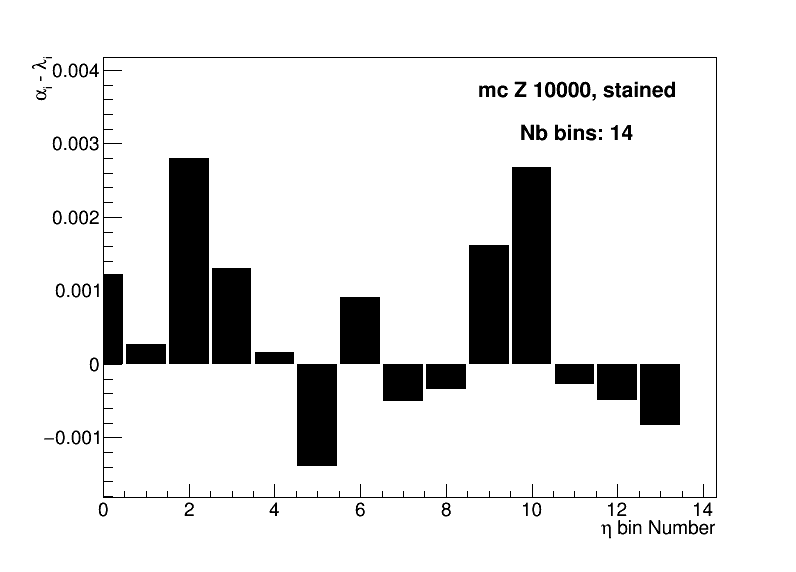
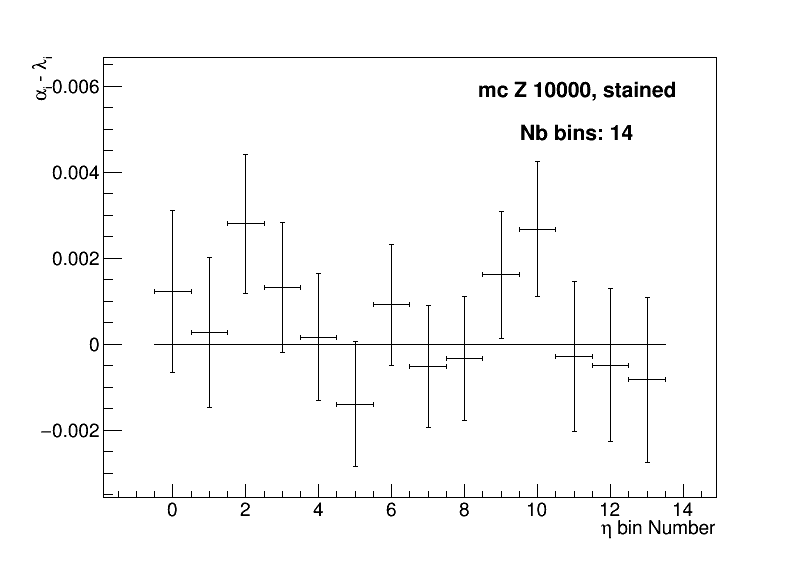
Test run on Z data 50000 sample with BetaAlpha method

diff --git a/Analysis/BetaAlpha_method/plot_alphas.C b/Analysis/BetaAlpha_method/plot_alphas.C
@@ -158,8 +158,7 @@ void plot_alphas(string& type, string& categ, string& nbEvents, int binning, int
     info_text->AddText(Form("%s %s %s, %s", type.c_str(), categ.c_str(), nbEvents.c_str(), (stained ? "stained" : "unstained")));
     info_text->AddText(Form("Nb bins: %d", binning));
 
-
-    TGraph* graph_diff = new TGraph(n_alpha, x, diff_i);
+    TGraphErrors* graph_diff = new TGraphErrors(n_alpha, x, diff_i, xerr, yerr);
     graph_diff->GetXaxis()->SetTitle("#eta bin Number");
     graph_diff->GetYaxis()->SetTitle(stained ? "#alpha_{i} - #lambda_{i}" : "#alpha_{i}");
     graph_diff->SetMaximum(graph_diff->GetYaxis()->GetXmax()*1.3);
@@ -168,7 +167,7 @@ void plot_alphas(string& type, string& categ, string& nbEvents, int binning, int
 
     TCanvas* canv_diff = new TCanvas("canv_diff",
         inputPrefix + "_diff_i", 800, 600);
-    graph_diff->Draw("AB");
+    graph_diff->Draw("AP");
     info_text->Draw();
     line_diff->Draw();
     canv_diff->SaveAs("fig/" + inputPrefix + "_diff_i.png", "Q");
